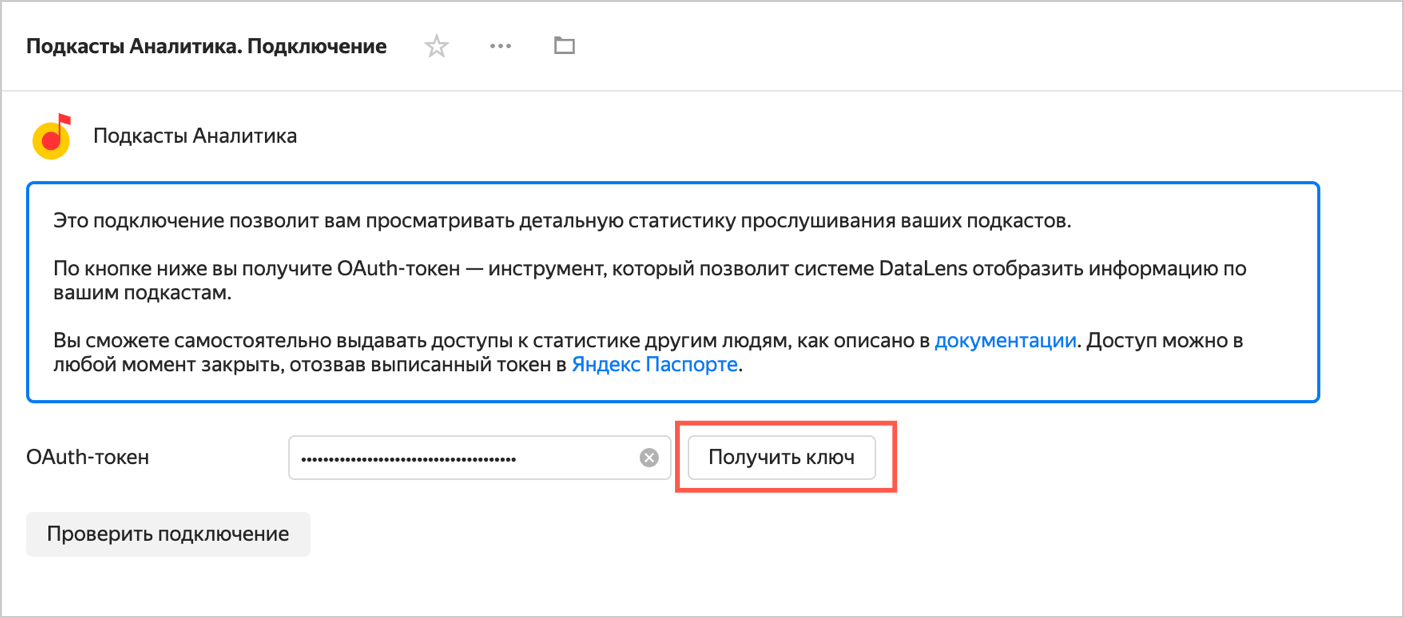
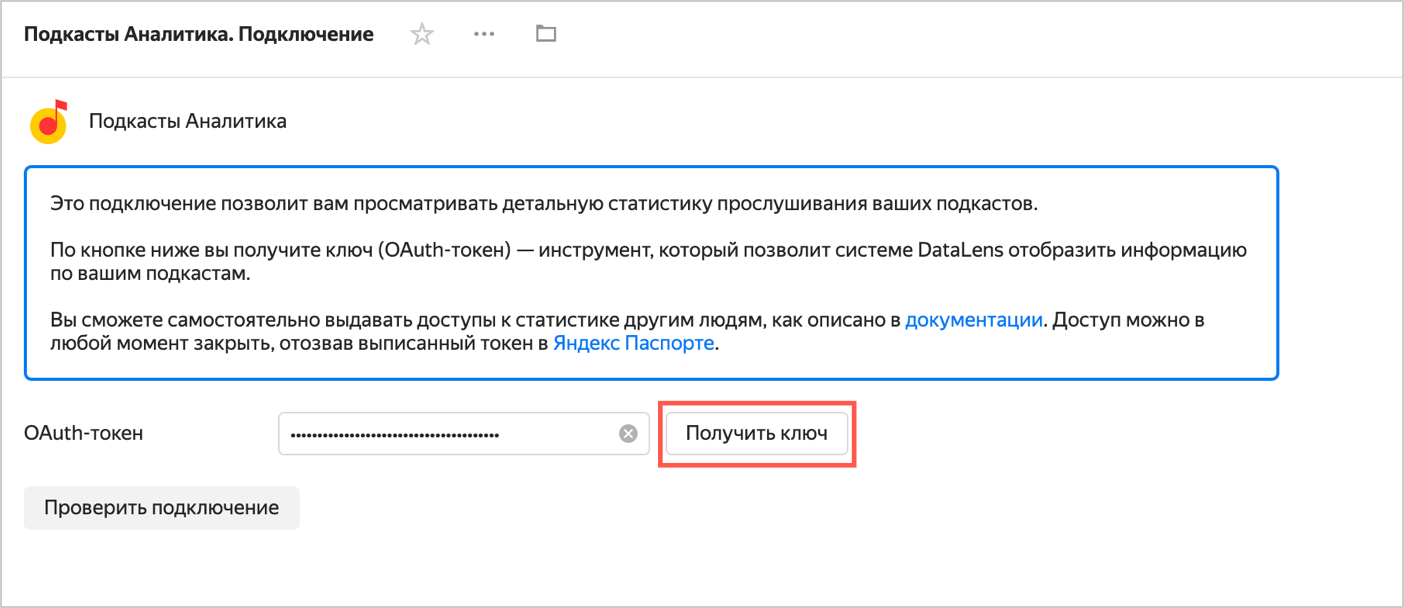
Merge pull request #4264 in CLOUD/docs from update/DOCAPI-11753-update-podcasters to develop
Squashed commit of the following:

commit 54ea5d536e1453f1f30a465398dd6647b8f236eb
Author: Elena Baskakova <elenbaskakova@yandex-team.ru>
Date:   Tue Apr 27 13:10:31 2021 +0300

    fix

commit ff936f472ef3b0af349142784c35e03780c5fbef
Author: Elena Baskakova <elenbaskakova@yandex-team.ru>
Date:   Tue Apr 27 13:01:28 2021 +0300

    fix tutorials

commit 34028cb9659b37621ada664ef73522e7f0c81df2
Author: Elena Baskakova <elenbaskakova@yandex-team.ru>
Date:   Fri Apr 23 14:14:54 2021 +0300

    update image

commit ce5ce1cbff71812797385a3e4efb8d05d1eb8b97
Author: Elena Baskakova <elenbaskakova@yandex-team.ru>
Date:   Thu Apr 22 13:26:53 2021 +0300

    fix

diff --git a/ru/_includes/tutorials/data-from-podcasts.md b/ru/_includes/tutorials/data-from-podcasts.md
@@ -5,15 +5,15 @@
 
 Для визуализации и исследования данных выполните следующие шаги:
 
-1. [Настройте подключение](#step-1).
+1. [Настройте подключение](#сonfigure-connection).
     1. [Подготовьте облако к работе](#before-you-begin).
     1. [Создайте подключение](#create-connection).
     1. [Изучите статистику подкастов в DataLens](#podcasts-in-datalens). 
-1. [Отредактируйте чарт, дашборд и создайте новые](#step-2).
-    1. [Измените дашборд](#changing-dashboard}).
+1. [Отредактируйте чарт, дашборд и создайте новые](#edit-dashboard-chart).
+    1. [Измените дашборд](#changing-dashboard).
     1. [Измените чарт](#changing-chart).
     1. [Создайте новый чарт и добавьте его на дашборд](#creating-chart).
-1. [Поделитесь аналитикой по подкасту с другими пользователями](#step-3).
+1. [Поделитесь аналитикой по подкасту с другими пользователями](#share-analytics).
     1. [Предоставьте доступ к DataLens](#open-access).
     1. [Поделитесь аналитикой по отдельному подкасту или эпизоду](#share-analytics-on-podcast-or-episode).
         1. [Ограничьте общие права доступа](#restrict-access). 
@@ -21,12 +21,12 @@
         1. [Предоставьте доступ к вашему экземпляру DataLens](#access-to-datalens-instance).
         1. [Предоставьте ограниченный доступ к данным для отдельного пользователя](#provide-access-to-podcast-episode).
     1. [Отзовите права доступа у пользователя](#revoke-access).
-1. [Сделайте публичным дашборд или чарт](#step4).
-1. [Добавьте чарт или дашборд на свой сайт](#step5).
+1. [Сделайте публичным дашборд или чарт](#publish-dashboard-chart).
+1. [Добавьте чарт или дашборд на свой сайт](#add-dashboard-chart).
 
 Рекомендуем ознакомиться с разделом [Вопросы и ответы](#qa), который поможет ответить на основные вопросы, возникающие у пользователей статистики подкастов Яндекс.Музыки.
 
-## Шаг 1. Настройте подключение {#step-1}
+## 1. Настройте подключение {#сonfigure-connection}
 
 ### 1.1 Подготовьте облако к работе {#before-you-begin}
 
@@ -56,8 +56,6 @@
 
 {% endlist %}
 
-Перейдите к созданию [подключения и стандартного дашборда](#create-dashboard).
-
 ### 1.2. Создайте подключение {#create-connection}
 
 {% note warning %}
@@ -80,12 +78,18 @@
 ### 1.3. Изучите статистику подкастов в {{ datalens-short-name }} {#podcasts-in-datalens}
 
 1. После создания подключения откроется папка с набором стандартных объектов, на основе которых построена ваша статистика:
+
+    ![image](../../_assets/datalens/solution-10/02-dashboard.png =20x20) Дашборд **Аналитика подкастов на Яндекс.Музыке** — основная страница для просмотра статистики, с набором всех виджетов (графиков, таблиц, фильтров).
+        
+    {% cut "Другие объекты" %}
+    
     * ![image](../../_assets/datalens/solution-10/04-music-connection.png =20x20) Подключение — набор параметров доступа к данным подкастов. Это ключ, который необходим пользователю, чтобы открыть статистику.
     * ![image](../../_assets/datalens/solution-10/03-datasets.png =20x20) Датасеты — наборы измерений и показателей, на основе которых строятся чарты.
         * Датасет **D01. Прослушивания подкастов** — датасет с данными про прослушиваниям.
         * Датасет **D02. Подписчики подкастов** — датасет с данными по подписчикам.
     * ![image](../../_assets/datalens/solution-10/01-charts.png =20x20) Чарты  — набор отдельных визуализаций в виде диаграмм и таблиц, используемых на дашборде.
-    * ![image](../../_assets/datalens/solution-10/02-dashboard.png =20x20) Дашборд **Аналитика подкастов на Яндекс.Музыке** — основная страница для просмотра статистики, с набором всех виджетов (графиков, таблиц, фильтров).
+   
+    {% endcut %}
  
 1. Откройте дашборд **Аналитика подкастов на Яндекс.Музыке**.
    1. Дашборд содержит четыре вкладки:
@@ -105,7 +109,7 @@
     
 Вы можете вносить правки и дополнять стандартные объекты по своему усмотрению. Например, удалить ненужный график с дашборда или добавить новый, изменить существующий график или добавить селектор на дашборд.    
 
-## Шаг 2. Отредактируйте дашборд, чарт и создайте новые {#step-2}
+## 2. Отредактируйте дашборд, чарт и создайте новые {#edit-dashboard-chart}
 
 ### 2.1. Отредактируйте дашборд {#changing-dashboard}
 
@@ -224,7 +228,7 @@
     
    ![image](../../_assets/datalens/solution-10/23-dashboard-with-charts.png)
 
-## Шаг 3. Поделитесь аналитикой по подкасту {#step-3}
+## 3. Поделитесь аналитикой по подкасту {#share-analytics}
 
 ### 3.1. Предоставьте доступ к {{ datalens-short-name }} {#open-access}
 
@@ -415,7 +419,7 @@
     1. Откройте страницу [Управление доступом]({{ link-console-access-management }}).
     1. Найдите пользователя, нажмите значок напротив нового пользователя и выберите **Удалить**.
 
-## Шаг 4. Сделайте публичным дашборд или чарт {#step4}
+## 4. Сделайте публичным дашборд или чарт {#publish-dashboard-chart}
 
 Данные в {{ datalens-short-name }} доступны только пользователям конкретного экземпляра. Если требуется предоставить публичный неограниченный доступ к аналитике подкастов, опубликуйте дашборд или отдельный чарт в [DataLens Public](../../datalens/concepts/datalens-public.md).
 
@@ -440,7 +444,7 @@
 
 {% endlist %}
 
-## Шаг 5. Добавьте чарт или дашборд на свой сайт {#step5}
+## 5. Добавьте чарт или дашборд на свой сайт {#add-dashboard-chart}
 
 Вы можете встроить опубликованные чарты на сайт или в приложение с помощью элемента `iframe`. Для этого:
 

diff --git a/ru/_includes/tutorials/data-from-csv-geo-visualization.md b/ru/_includes/tutorials/data-from-csv-geo-visualization.md
@@ -23,19 +23,19 @@
 
 Для визуализации и исследования данных [подготовьте облако к работе](data-from-csv-geo-visualization.md#before-you-begin), затем выполните следующие шаги:
 
-1. [Создайте подключение к CSV-файлу](data-from-csv-geo-visualization.md#step1).
-1. [Создайте датасет и настройте его поля](data-from-csv-geo-visualization.md#step2).
-1. [Создайте первый чарт — Тепловую карту](data-from-csv-geo-visualization.md#step3).
-1. [Создайте второй чарт — Линейчатую диаграмму](data-from-csv-geo-visualization.md#step4).
-1. [Создайте еще чарты — Линейные диаграммы](data-from-csv-geo-visualization.md#step5).
-1. [Создайте дашборд](data-from-csv-geo-visualization.md#step6).
-1. [Добавьте чарты на дашборд](data-from-csv-geo-visualization.md#step7).
-1. [Добавьте селекторы и сформируйте дашборд](data-from-csv-geo-visualization.md#step8).
-1. [Подключите дополнительный источник с геослоями регионов](data-from-csv-geo-visualization.md#step9).
-1. [Добавьте новые поля в датасет](data-from-csv-geo-visualization.md#step10).
-1. [Создайте чарт с использованием новых полей](data-from-csv-geo-visualization.md#step11).
-1. [Добавьте новый чарт на дашборд](data-from-csv-geo-visualization.md#step12).
-1. [Опубликуйте дашборд](data-from-csv-geo-visualization.md#step13).
+1. [Создайте подключение к CSV-файлу](#step1).
+1. [Создайте датасет и настройте его поля](#step2).
+1. [Создайте первый чарт — Тепловую карту](#step3).
+1. [Создайте второй чарт — Линейчатую диаграмму](#step4).
+1. [Создайте еще чарты — Линейные диаграммы](#step5).
+1. [Создайте дашборд](#step6).
+1. [Добавьте чарты на дашборд](#step7).
+1. [Добавьте селекторы и сформируйте дашборд](#step8).
+1. [Подключите дополнительный источник с геослоями регионов](#step9).
+1. [Добавьте новые поля в датасет](#step10).
+1. [Создайте чарт с использованием новых полей](#step11).
+1. [Добавьте новый чарт на дашборд](#step12).
+1. [Опубликуйте дашборд](#step13).
 
 {% endif %}
 

diff --git a/ru/_includes/tutorials/data-from-ch-visualization.md b/ru/_includes/tutorials/data-from-ch-visualization.md
@@ -22,15 +22,15 @@
 
 Для визуализации и исследования данных [подготовьте облако к работе](#before-you-begin), затем выполните следующие шаги:
 
-1. [Определите источник данных датасета](data-from-ch-visualization.md#step1).
-1. [Настройте поля датасета](data-from-ch-visualization.md#step2).
-1. [Создайте чарт — линейная диаграмма](data-from-ch-visualization.md#step3).
-1. [Создайте чарт — столбчатая диаграмма](data-from-ch-visualization.md#step4).
-1. [Создайте чарт — сводная таблица](data-from-ch-visualization.md#step5).
-1. [Создайте чарт — тепловая карта](data-from-ch-visualization.md#step6).
-1. [Создайте дашборд](data-from-ch-visualization.md#step7).
-1. [Добавьте чарты на дашборд](data-from-ch-visualization.md#step8).
-1. [Добавьте селекторы на дашборд](data-from-ch-visualization.md#step9).
+1. [Определите источник данных датасета](#step1).
+1. [Настройте поля датасета](#step2).
+1. [Создайте чарт — линейная диаграмма](#step3).
+1. [Создайте чарт — столбчатая диаграмма](#step4).
+1. [Создайте чарт — сводная таблица](#step5).
+1. [Создайте чарт — тепловая карта](#step6).
+1. [Создайте дашборд](#step7).
+1. [Добавьте чарты на дашборд](#step8).
+1. [Добавьте селекторы на дашборд](#step9).
 
 Создайте [подключение](../../datalens/concepts/connection.md) к базе данных ClickHouse, в которой хранится таблица.
 

diff --git a/ru/_includes/tutorials/data-from-ch-to-geolayers-visualization.md b/ru/_includes/tutorials/data-from-ch-to-geolayers-visualization.md
@@ -11,15 +11,15 @@
 
 Для визуализации и исследования данных [подготовьте облако к работе](#before-you-begin), затем выполните следующие шаги:
 
-1. [Импортируйте геослои из Marketplace](data-from-ch-to-geolayers-visualization.md#step1).
-1. [Создайте подключение](data-from-ch-to-geolayers-visualization.md#step2).
-1. [Настройте поля датасета](data-from-ch-to-geolayers-visualization.md#step3).
-1. [Создайте чарт — столбчатая диаграмма](data-from-ch-to-geolayers-visualization.md#step4).
-1. [Создайте чарт — линейчатая диаграмма](data-from-ch-to-geolayers-visualization.md#step5).
-1. [Создайте чарт — индикатор](data-from-ch-to-geolayers-visualization.md#step6).
-1. [Создайте чарт — карта](data-from-ch-to-geolayers-visualization.md#step7).
-1. [Создайте дашборд](data-from-ch-to-geolayers-visualization.md#step8).
-1. [Добавьте геослои на дашборд](data-from-ch-to-geolayers-visualization.md#step9).
+1. [Импортируйте геослои из Marketplace](#step1).
+1. [Создайте подключение](#step2).
+1. [Настройте поля датасета](#step3).
+1. [Создайте чарт — столбчатая диаграмма](#step4).
+1. [Создайте чарт — линейчатая диаграмма](#step5).
+1. [Создайте чарт — индикатор](#step6).
+1. [Создайте чарт — карта](#step7).
+1. [Создайте дашборд](#step8).
+1. [Добавьте геослои на дашборд](#step9).
 
 ## Подготовьте облако к работе {#before-you-begin}
 

diff --git a/ru/_includes/tutorials/data-from-csv-visualization.md b/ru/_includes/tutorials/data-from-csv-visualization.md
@@ -8,15 +8,15 @@
 
 Для визуализации и исследования данных [подготовьте облако к работе](#before-you-begin), затем выполните следующие шаги:
 
-1. [Создайте подключение](data-from-csv-visualization.md#step1).
-1. [Создайте датасет](data-from-csv-visualization.md#step2).
-1. [Создайте первый чарт](data-from-csv-visualization.md#step3).
-1. [Создайте второй чарт](data-from-csv-visualization.md#step4).
-1. [Создайте дашборд](data-from-csv-visualization.md#step5).
-1. [Добавьте чарты на дашборд](data-from-csv-visualization.md#step6).
-1. [Добавьте селекторы на дашборд](data-from-csv-visualization.md#step7).
-1. [Настройте отображение виджетов и приступите к исследованию зависимостей](data-from-csv-visualization.md#step8).
-1. [Продолжите исследования данных о супергероях](data-from-csv-visualization.md#step9).
+1. [Создайте подключение](#step1).
+1. [Создайте датасет](#step2).
+1. [Создайте первый чарт](#step3).
+1. [Создайте второй чарт](#step4).
+1. [Создайте дашборд](#step5).
+1. [Добавьте чарты на дашборд](#step6).
+1. [Добавьте селекторы на дашборд](#step7).
+1. [Настройте отображение виджетов и приступите к исследованию зависимостей](#step8).
+1. [Продолжите исследования данных о супергероях](#step9).
 
 {% if audience != "internal" %} 
 

diff --git a/ru/_includes/tutorials/data-from-csv-to-public-visualization.md b/ru/_includes/tutorials/data-from-csv-to-public-visualization.md
@@ -14,10 +14,10 @@
 
 Для визуализации и исследования данных [подготовьте облако к работе](#before-you-begin), затем выполните следующие шаги:
 
-1. [Создайте подключение](data-from-csv-to-public-visualization.md#step1).
-1. [Создайте датасет](data-from-csv-to-public-visualization.md#step2).
-1. [Создайте чарт с картой районов Москвы](data-from-csv-to-public-visualization.md#step3).
-1. [Опубликуйте чарт в DataLens Public](data-from-csv-to-public-visualization.md#step4).
+1. [Создайте подключение](#step1).
+1. [Создайте датасет](#step2).
+1. [Создайте чарт с картой районов Москвы](#step3).
+1. [Опубликуйте чарт в DataLens Public](#step4).
 
 {% if audience != "internal" %} 
 

diff --git a/ru/_includes/tutorials/data-from-metrica-logsapi-visualization.md b/ru/_includes/tutorials/data-from-metrica-logsapi-visualization.md
@@ -15,9 +15,9 @@
  
 Для визуализации и исследования данных [подготовьте облако к работе](#before-you-begin), затем выполните следующие шаги:
 
-1. [Создайте подключение и стандартный дашборд](data-from-metrica-logsapi-visualization#step1).
-1. [Измените стандартный дашборд](data-from-metrica-logsapi-visualization#step2).
-1. [Измените чарт](data-from-metrica-logsapi-visualization#step3).
+1. [Создайте подключение и стандартный дашборд](#step1).
+1. [Измените стандартный дашборд](#step2).
+1. [Измените чарт](#step3).
 
 {% if audience != "internal" %} 
 

diff --git a/ru/_includes/tutorials/data-from-metrica-visualization.md b/ru/_includes/tutorials/data-from-metrica-visualization.md
@@ -7,9 +7,9 @@
 
 Для визуализации и исследования данных [подготовьте облако к работе](#before-you-begin), затем выполните следующие шаги:
 
-1. [Создайте подключение и стандартный дашборд](data-from-metrica-visualization#step1).
-1. [Измените стандартный дашборд](data-from-metrica-visualization#step2).
-1. [Измените чарт](data-from-metrica-visualization#step3).
+1. [Создайте подключение и стандартный дашборд](#step1).
+1. [Измените стандартный дашборд](#step2).
+1. [Измените чарт](#step3).
 
 {% if audience != "internal" %} 
 

diff --git a/ru/_includes/tutorials/data-from-appmetrica-visualization.md b/ru/_includes/tutorials/data-from-appmetrica-visualization.md
@@ -6,8 +6,8 @@
 
 Для визуализации и исследования данных [подготовьте облако к работе](#before-you-begin), затем выполните следующие шаги:
 
-1. [Создайте подключение и стандартный дашборд](data-from-appmetrica-visualization.md#create-dashboard).
-1. [Измените стандартный дашборд](data-from-appmetrica-visualization.md#edit-dashboard).
+1. [Создайте подключение и стандартный дашборд](#create-dashboard).
+1. [Измените стандартный дашборд](#edit-dashboard).
 
 {% if audience != "internal" %} 
 

diff --git a/ru/datalens/operations/index.md b/ru/datalens/operations/index.md
@@ -4,6 +4,7 @@
 
 {% if audience != "internal" %} - [{#T}](connection/create-clickhouse.md) {% endif %}
 - [{#T}](connection/create-csv.md)
+- [{#T}](connection/create-google-sheets.md)
 - [{#T}](connection/create-mysql.md)
 - [{#T}](connection/create-postgresql.md)
 - [{#T}](connection/create-mssql-server.md)
